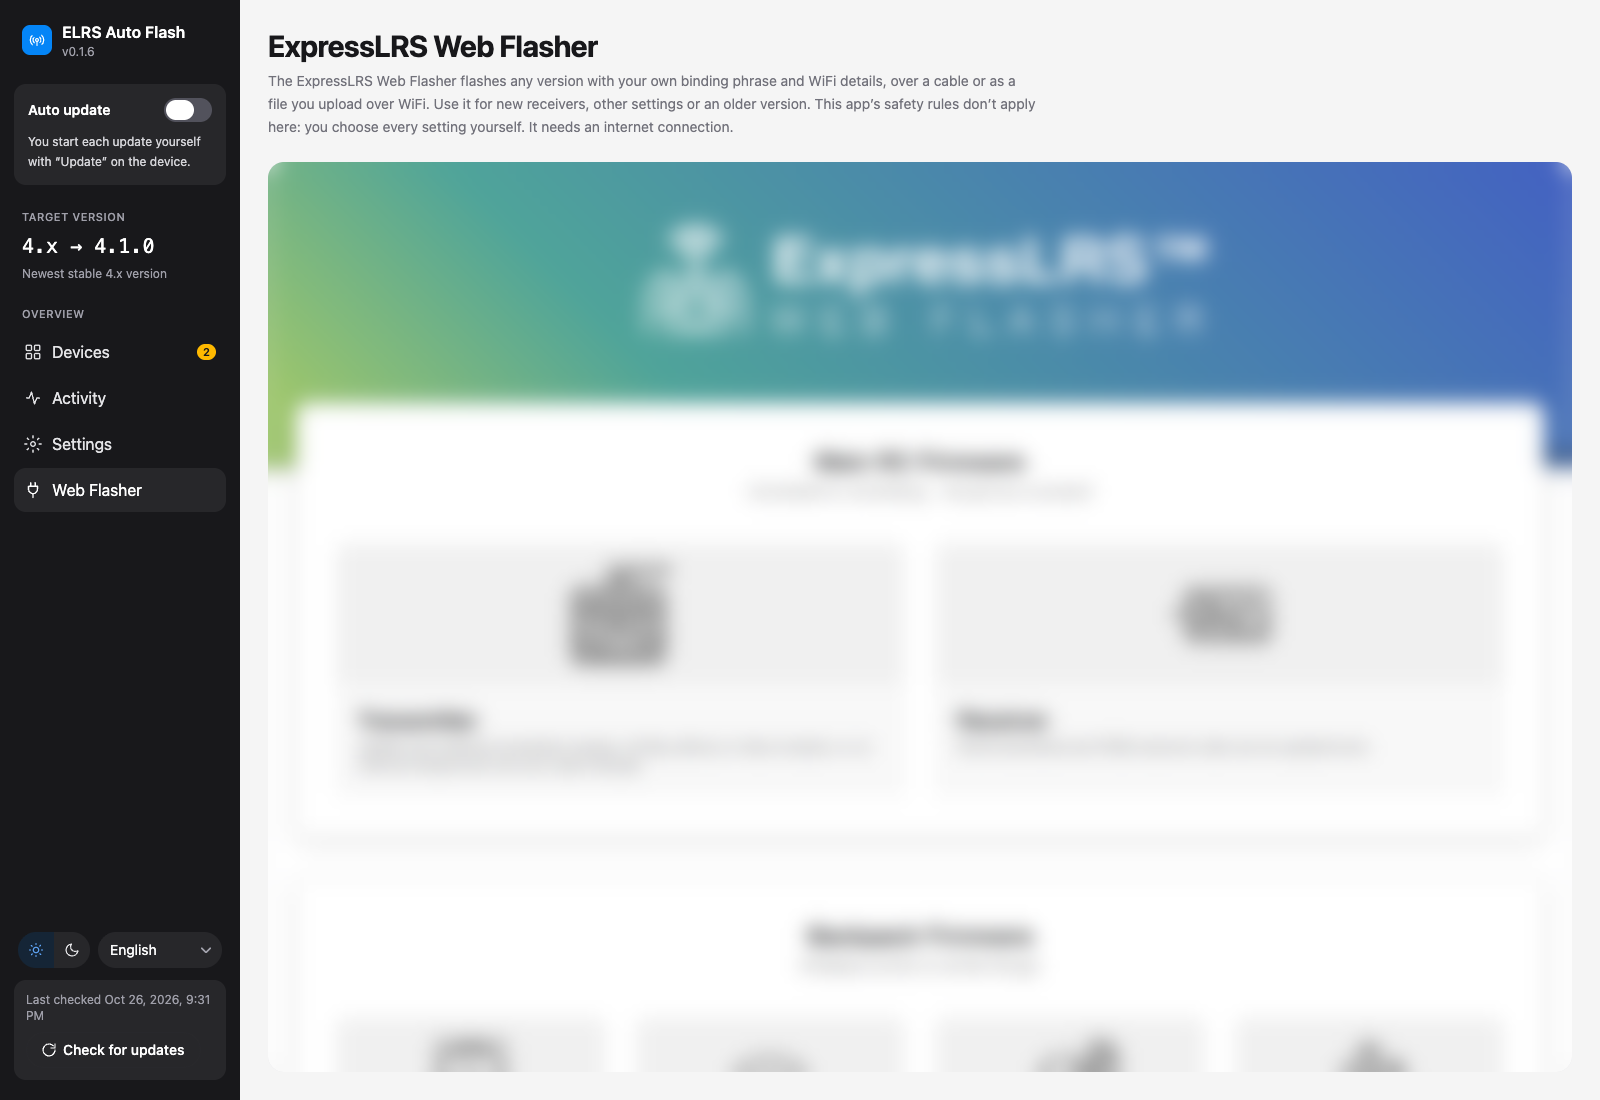
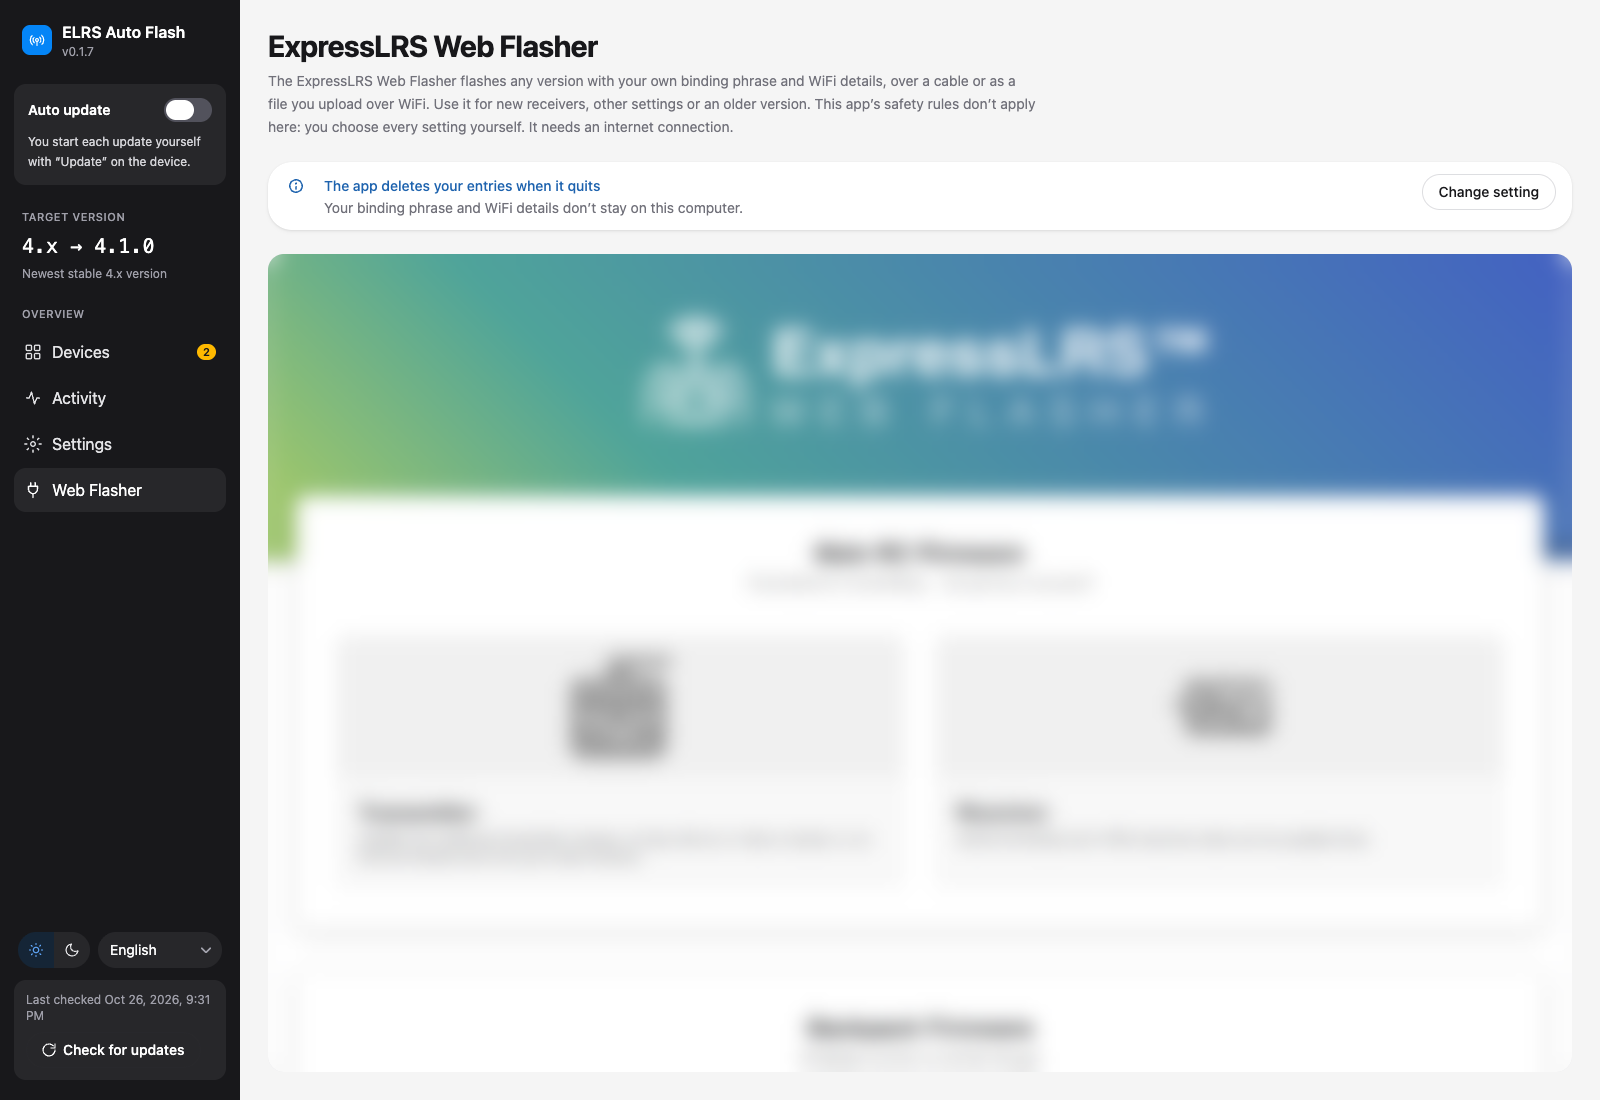
Release 0.1.7: Web Flasher shows whether the app keeps the entries

diff --git a/README.md b/README.md
@@ -109,7 +109,7 @@ In the app:
 - Flashing over a cable works without Chrome or Edge: when the Web Flasher connects, the app asks which port the device is on.
 - Files the Web Flasher saves (firmware file, Lua script) go to the Downloads folder, which then opens with the file selected; any other file is saved only where you choose. Links to guides open in your browser.
 - Flashing STM32 devices with an ST-Link does not work in the app; use the [browser interface](docs/browser-interface.md) in Chrome or Edge for that.
-- The binding phrase and WiFi details you type in are deleted when the app quits, unless you turn on "Remember Web Flasher entries" in the settings (then they stay on the computer unencrypted, as in a browser).
+- The binding phrase and WiFi details you type in are deleted when the app quits, unless you turn on "Remember Web Flasher entries" in the settings (then they stay on the computer unencrypted, as in a browser). The top of the page shows which applies, with a button to that setting.
 
 ![The Web Flasher page](docs/screenshots/web-flasher.png)
 
